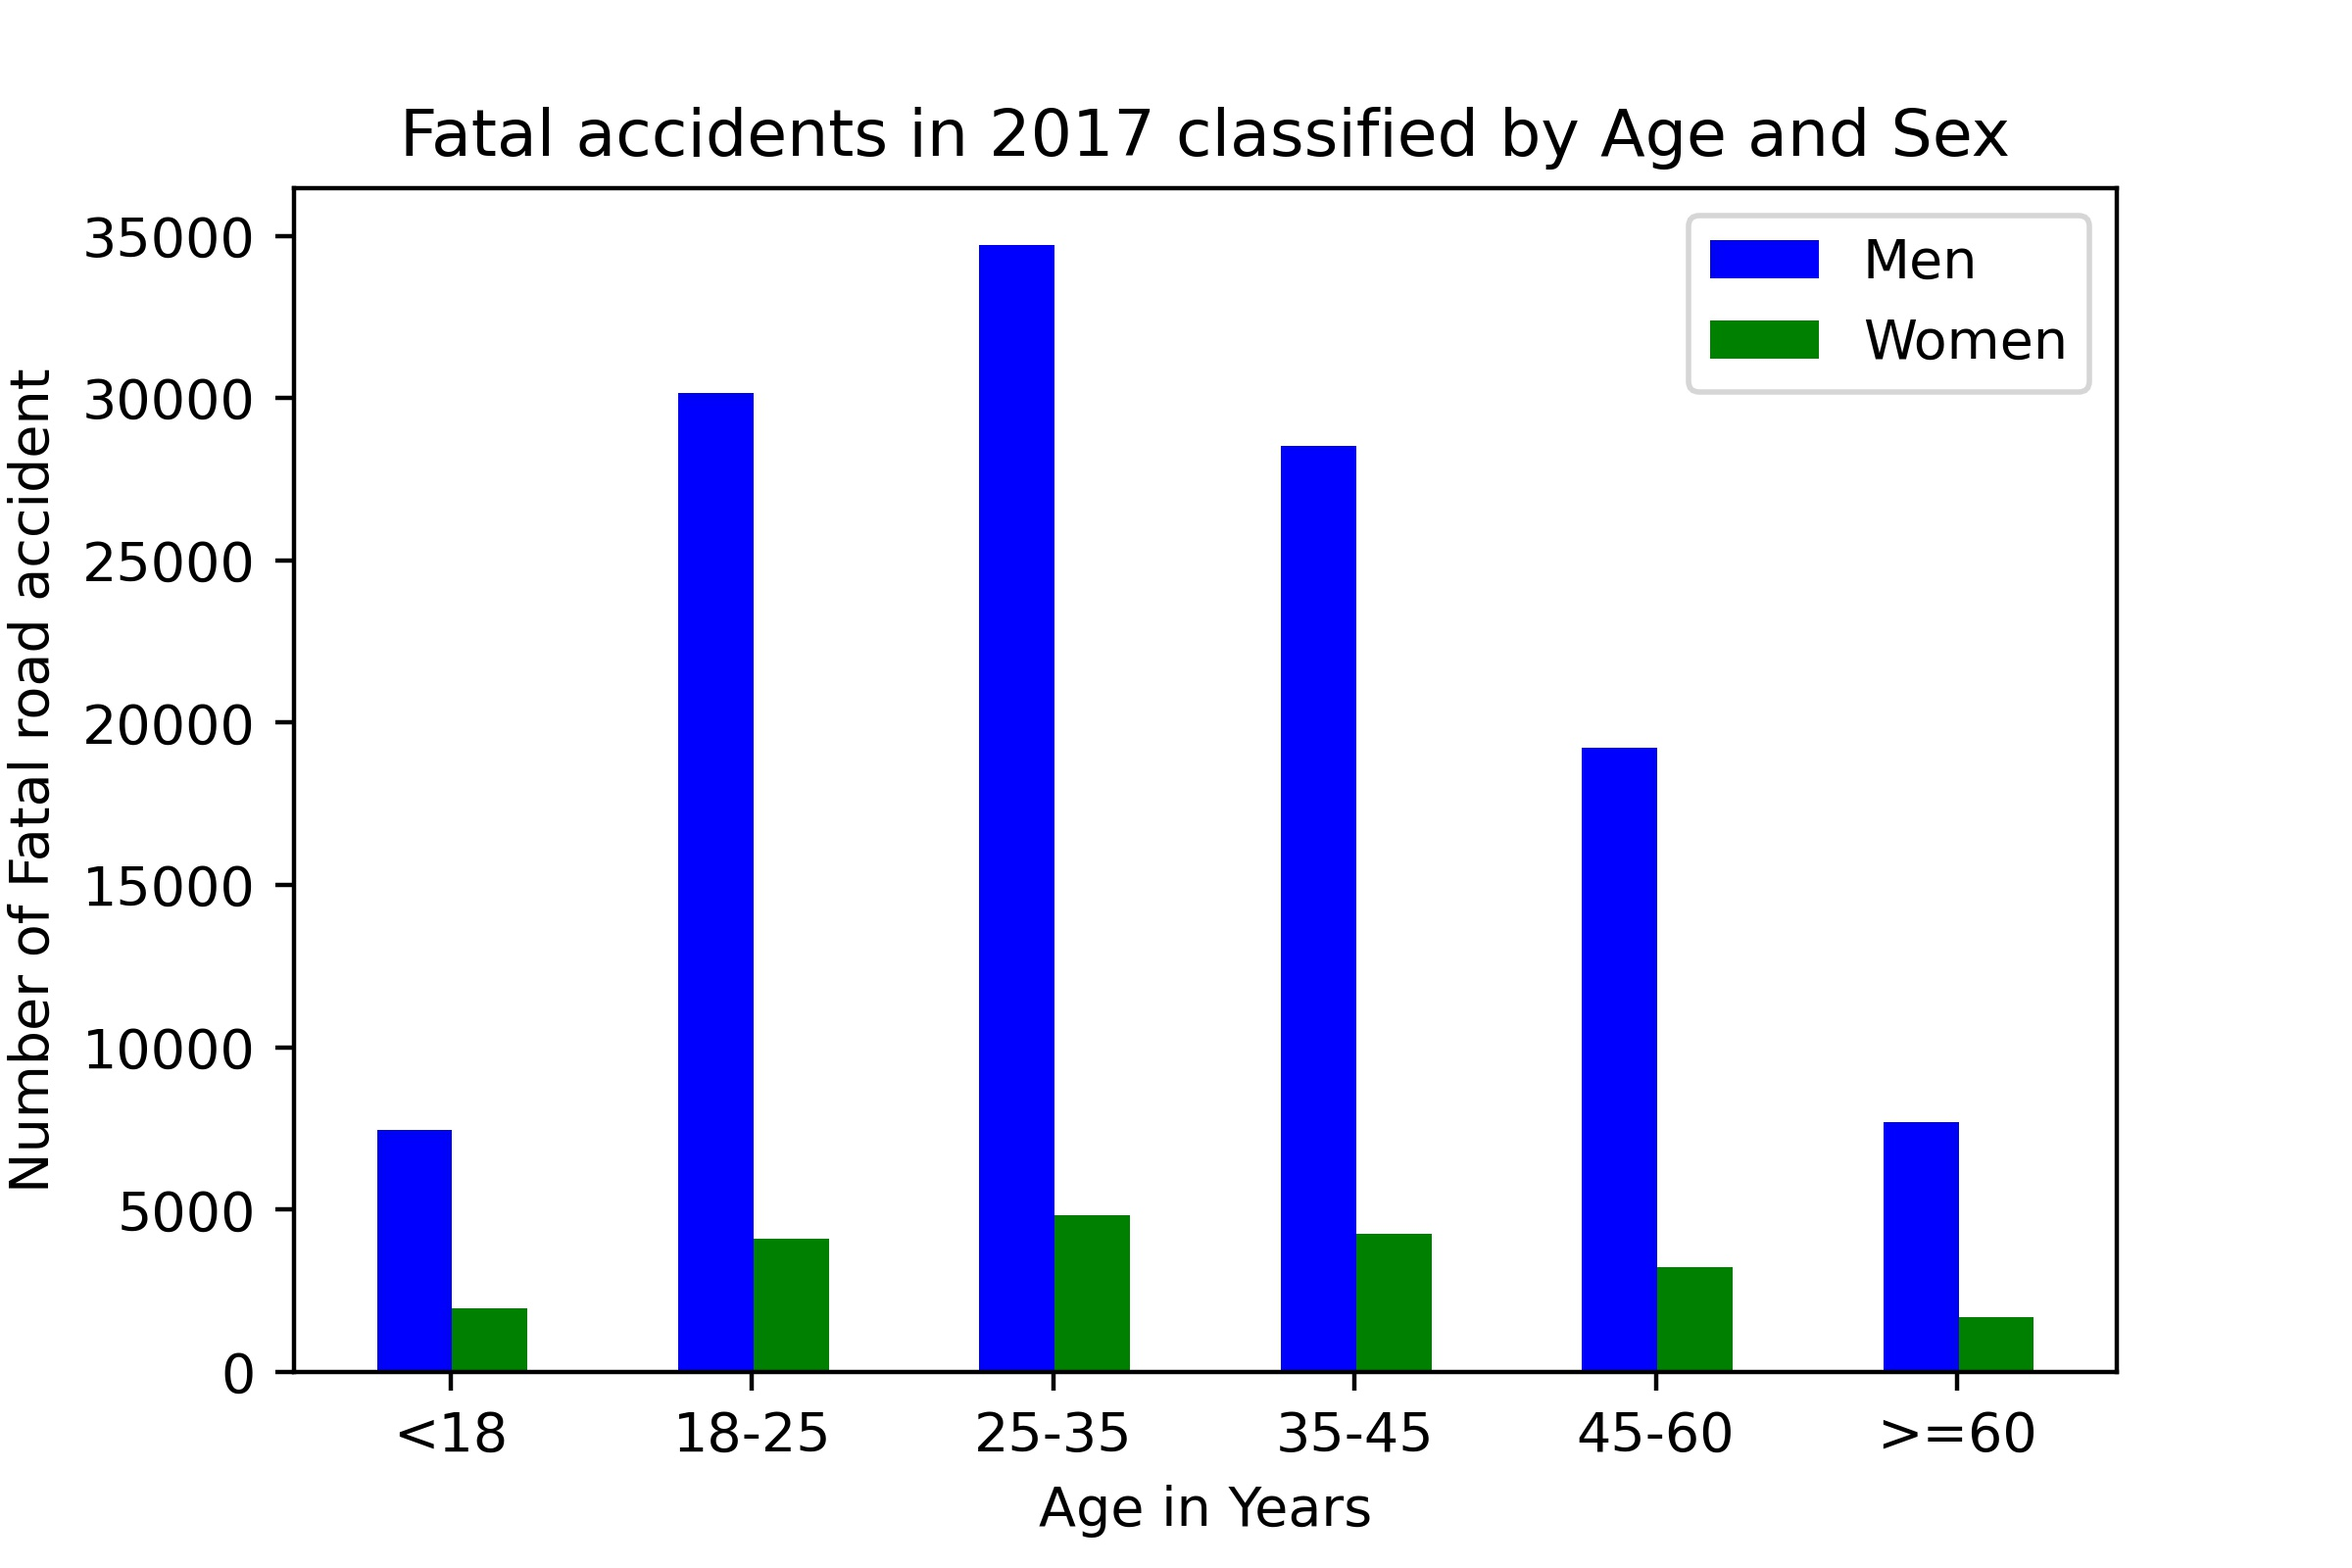
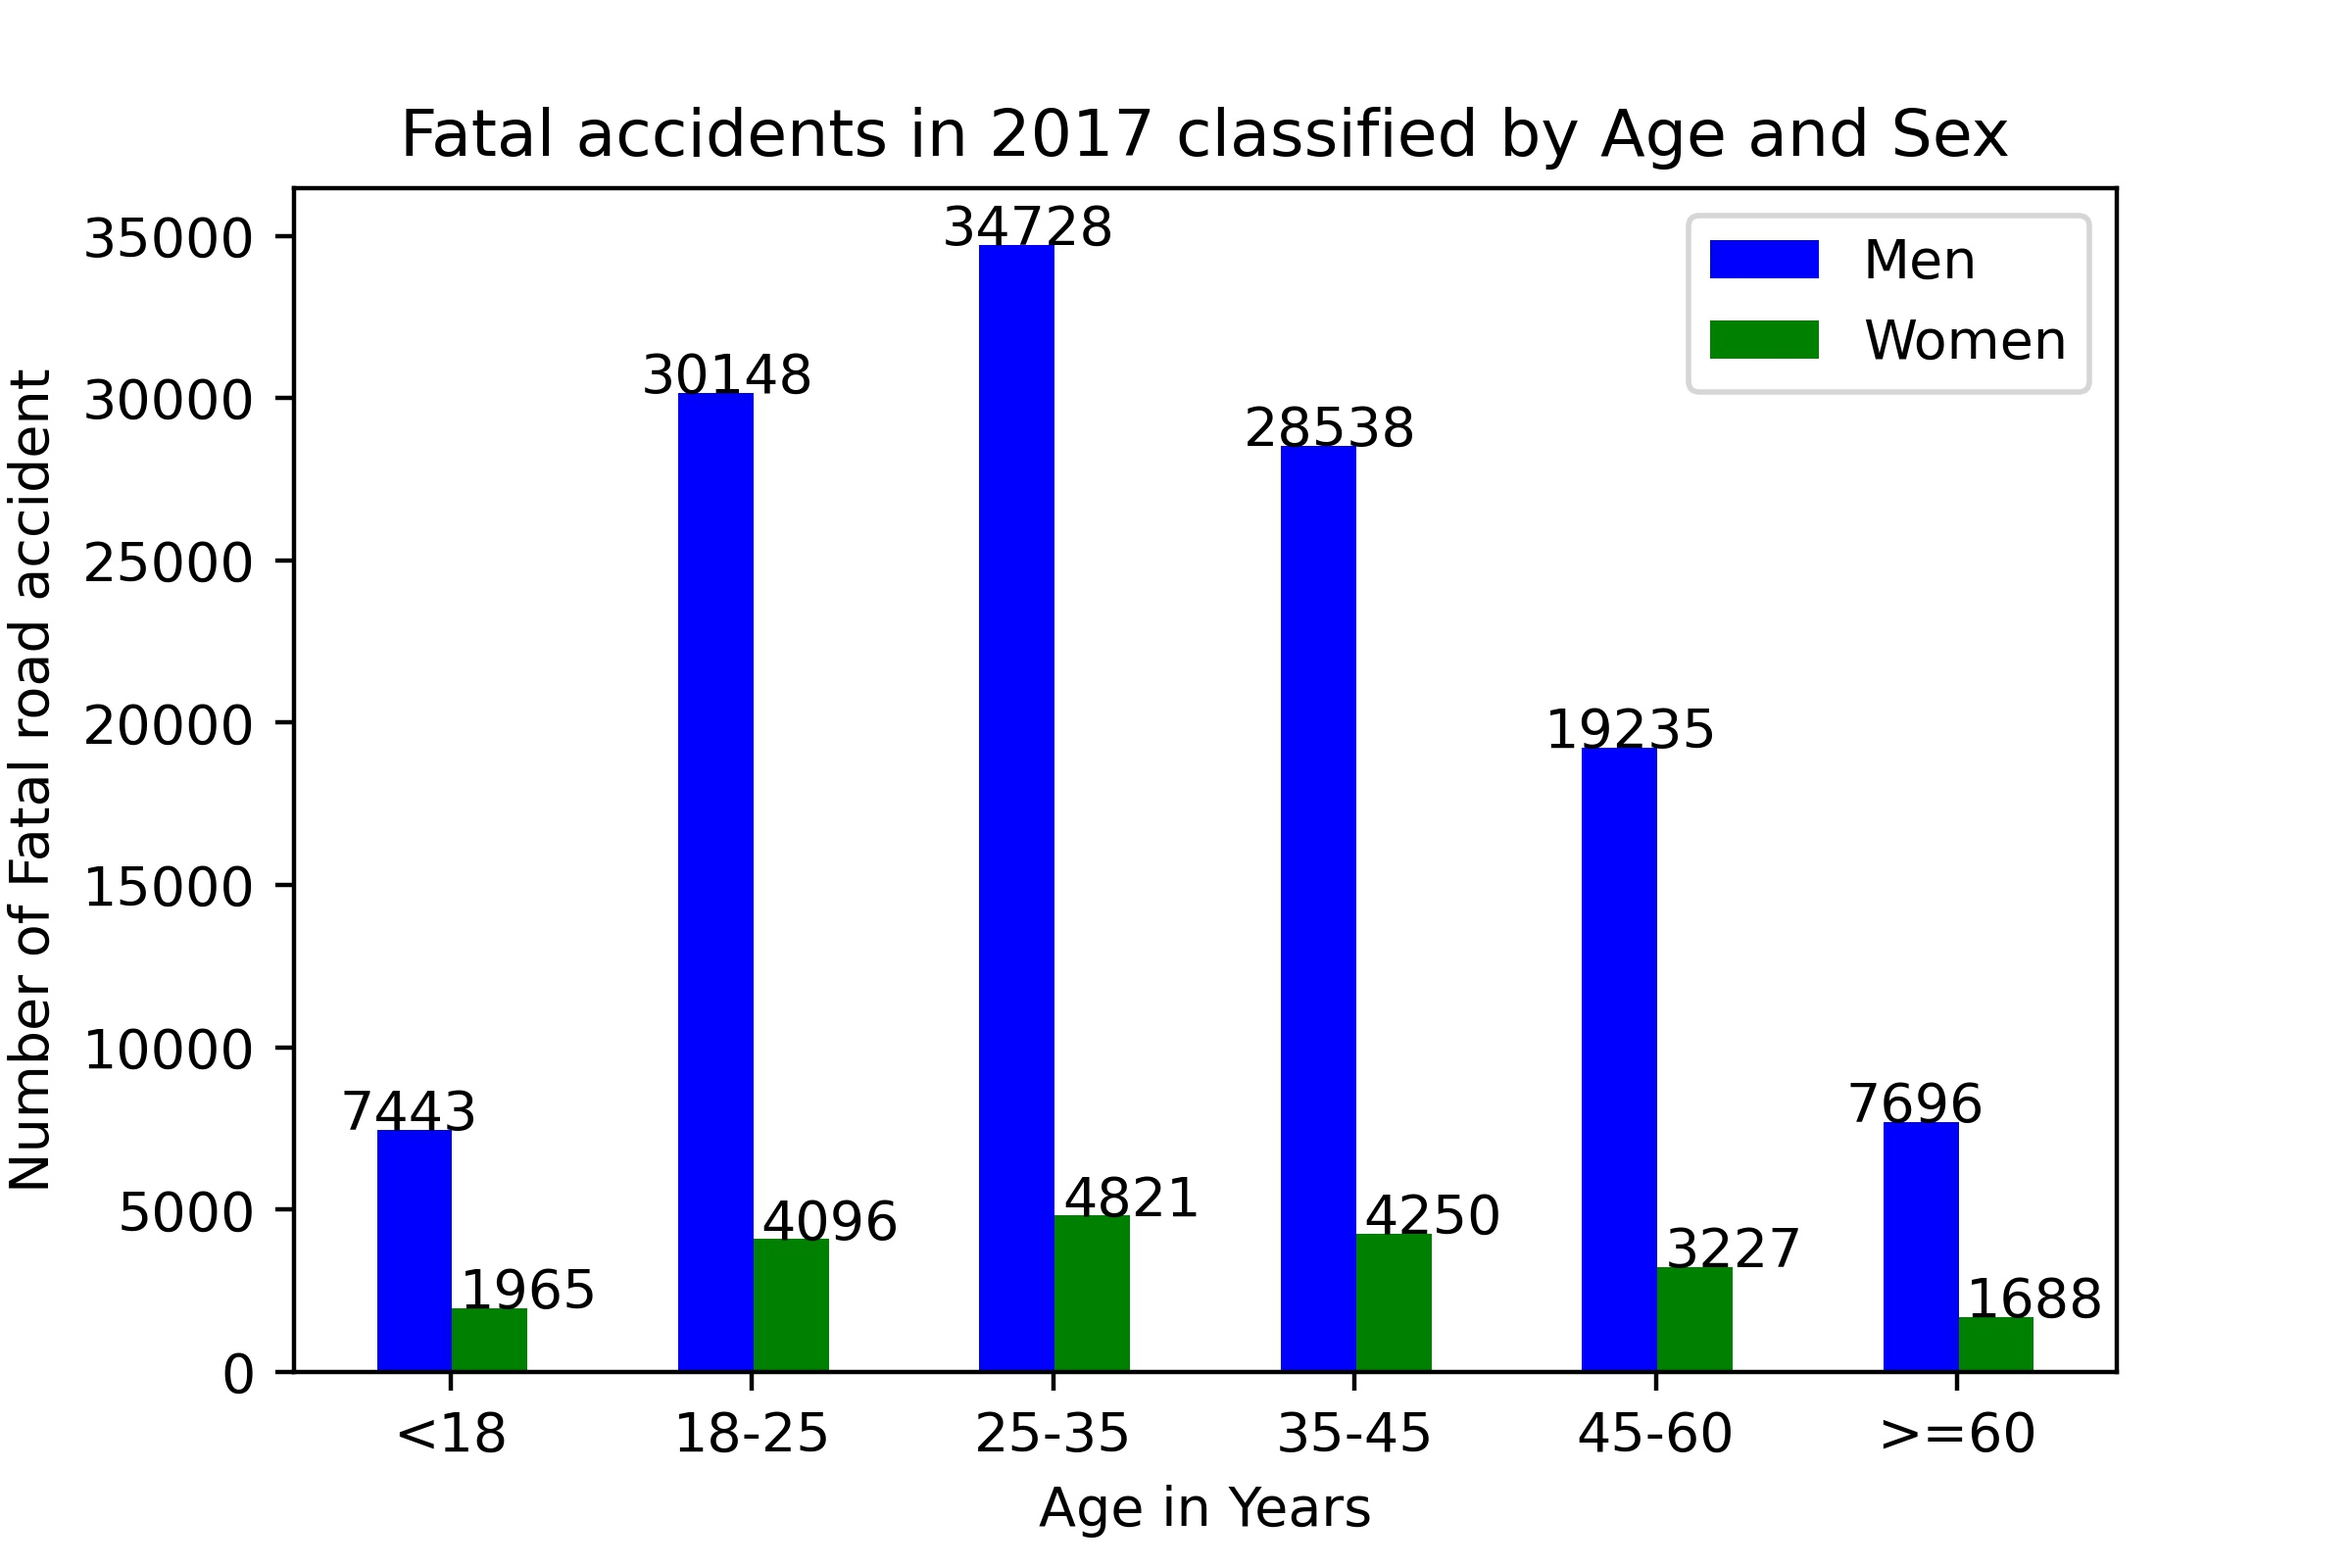
readme and image changed

diff --git a/README.md b/README.md
@@ -13,27 +13,14 @@ Below is the screen shot of the columns in the data.
 
 ![alt text](https://github.com/bikipanda/DS-200-Research-Methods-Plot-Assignment/blob/main/columns_bar.PNG)
 
+### Plot:
+
 Below is the plot comparing number of road accidents of different Age groups and between different Sex.
 
 ![alt text](https://github.com/bikipanda/DS-200-Research-Methods-Plot-Assignment/blob/main/Fatal%20Accidents%20by%20Age%20and%20sex%20in%202017.jpg)
 
-pip install foobar
-```
-
-## Usage
-
-```python
-import foobar
-
-foobar.pluralize('word') # returns 'words'
-foobar.pluralize('goose') # returns 'geese'
-foobar.singularize('phenomena') # returns 'phenomenon'
-```
-
-## Contributing
-Pull requests are welcome. For major changes, please open an issue first to discuss what you would like to change.
-
-Please make sure to update tests as appropriate.
-
-## License
-[MIT](https://choosealicense.com/licenses/mit/)
+### Observations:
+1. The number of men killed in road accidents is more than number of women killed for every age group.
+2. This could be due to the fact that there are more male drivers than female drivers.
+3. By carefully observing the two largest age groups **18-25** age group and **25-35** age group, we can conclude that the Average number of Accidents per "year age" in the age group **18-25** is the greater than the age group **25-35**. Infact it is the highest among all.
+4. So,we can say younger inexperienced drivers are the cause for higher rate of accidents across both genders.
